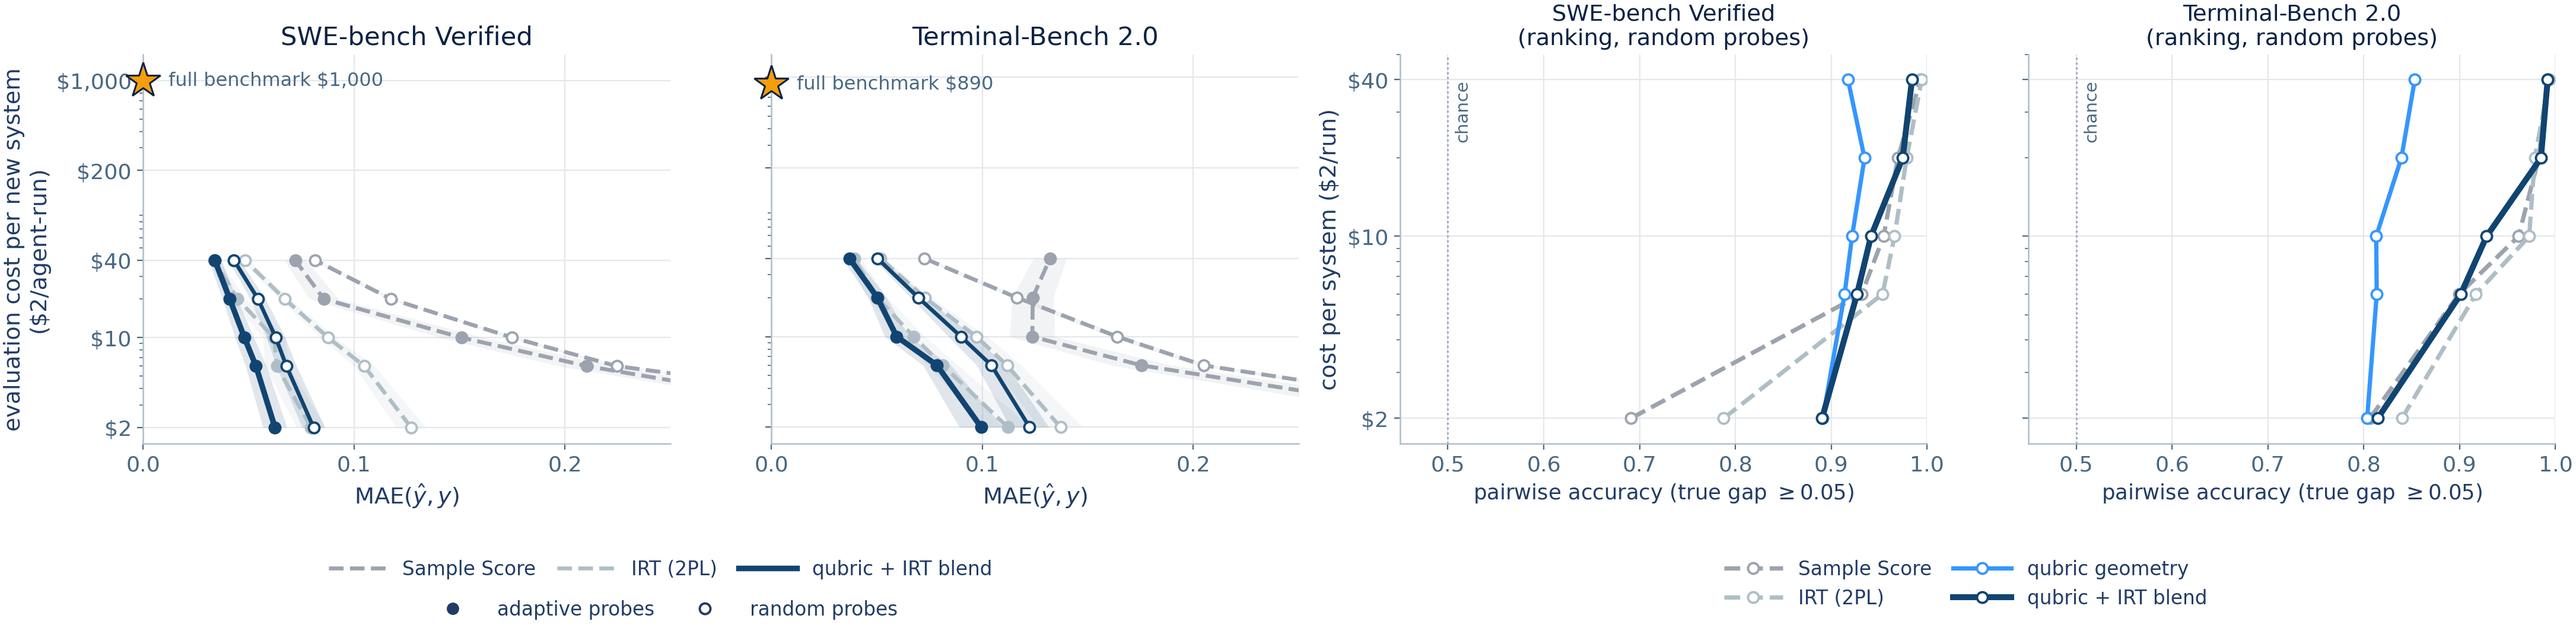
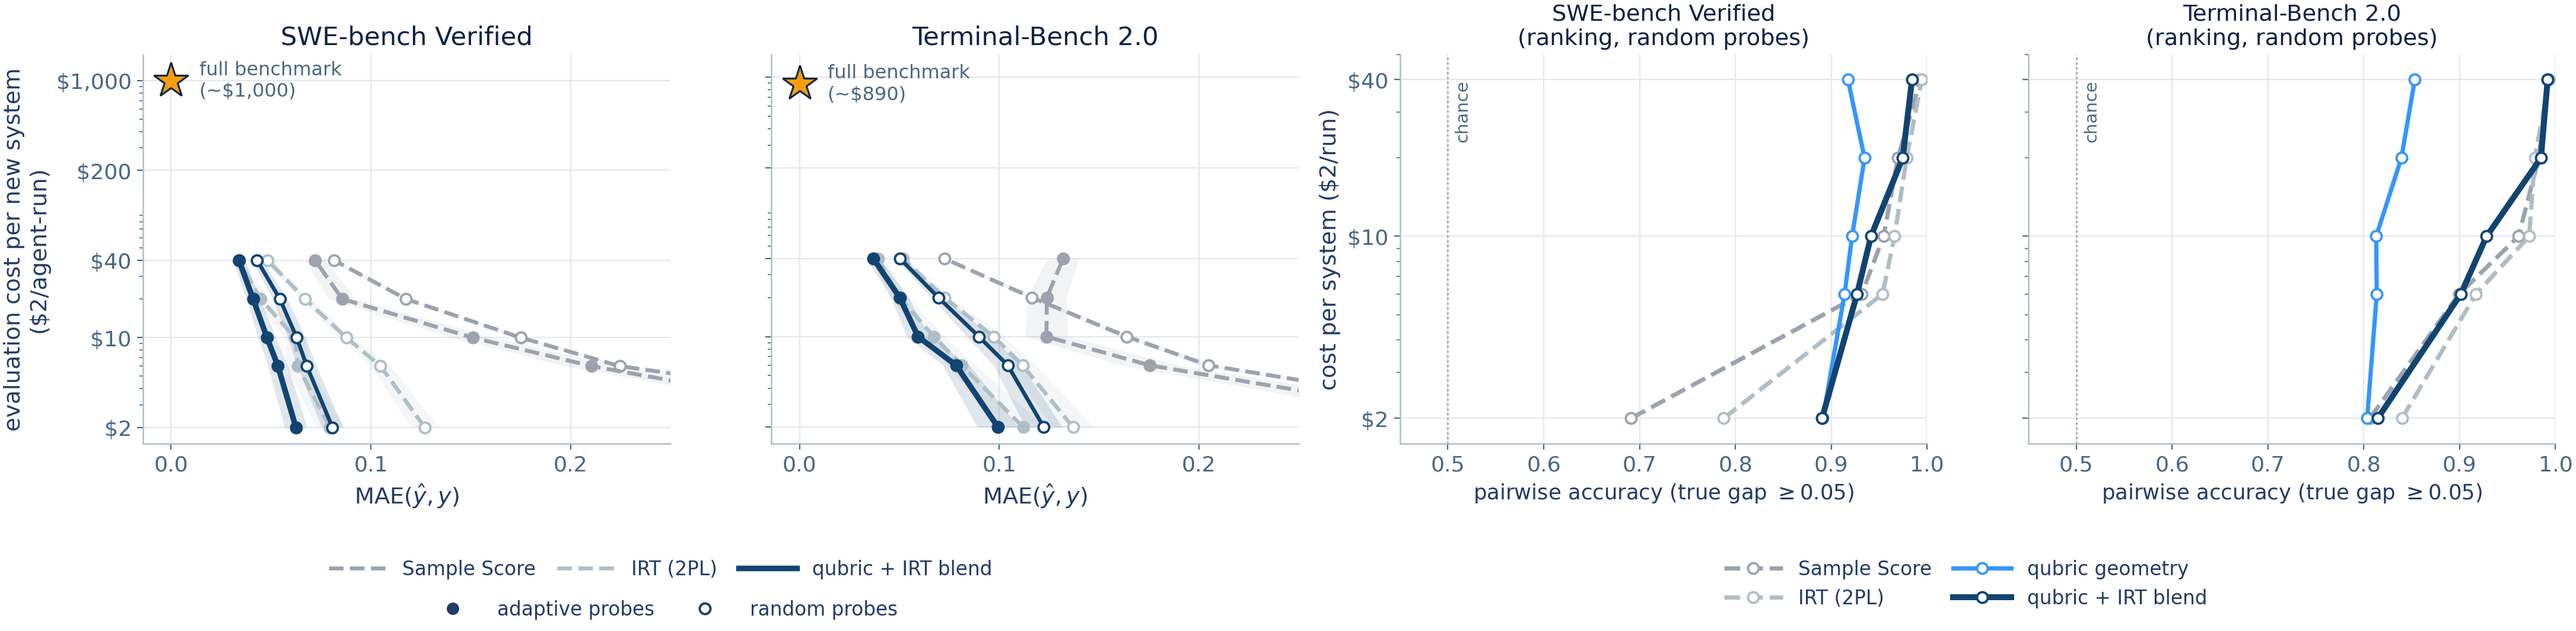
cost figure: star off axis (xlim pad), 'full benchmark (~$x,xxx)' label
Claude-Session: https://claude.ai/code/session_01RGusFFXzoPTkSKgzzDLjNv

diff --git a/scripts/fig_cost.py b/scripts/fig_cost.py
@@ -78,15 +78,15 @@ def main():
                 markerfacecolor='#f59e0b',
                 markeredgecolor=hv_style.INK_TITLE, markeredgewidth=1.1,
                 zorder=5, clip_on=False)
-        ax.text(.012, full_cost,
-                f'full benchmark \\${full_cost:,.0f}',
+        ax.text(.014, full_cost,
+                f'full benchmark\n(~\\${full_cost:,.0f})',
                 ha='left', va='center', fontsize=SZ['annot'],
                 color=hv_style.INK_MUTE)
         ax.set_yscale('log')
         ax.set_yticks([2, 10, 40, 200, 1000])
         ax.set_yticklabels(['\\$2', '\\$10', '\\$40', '\\$200', '\\$1,000'])
         ax.set_ylim(1.5, max(full_cost * 1.6, 1500))
-        ax.set_xlim(0, .25)
+        ax.set_xlim(-0.014, .25)
         ax.set_xticks([0, .1, .2])
         ax.set_title(title, fontsize=SZ['label'], color=hv_style.INK_TITLE)
         ax.set_xlabel('MAE$(\\hat{y}, y)$', fontsize=SZ['subtitle'])
